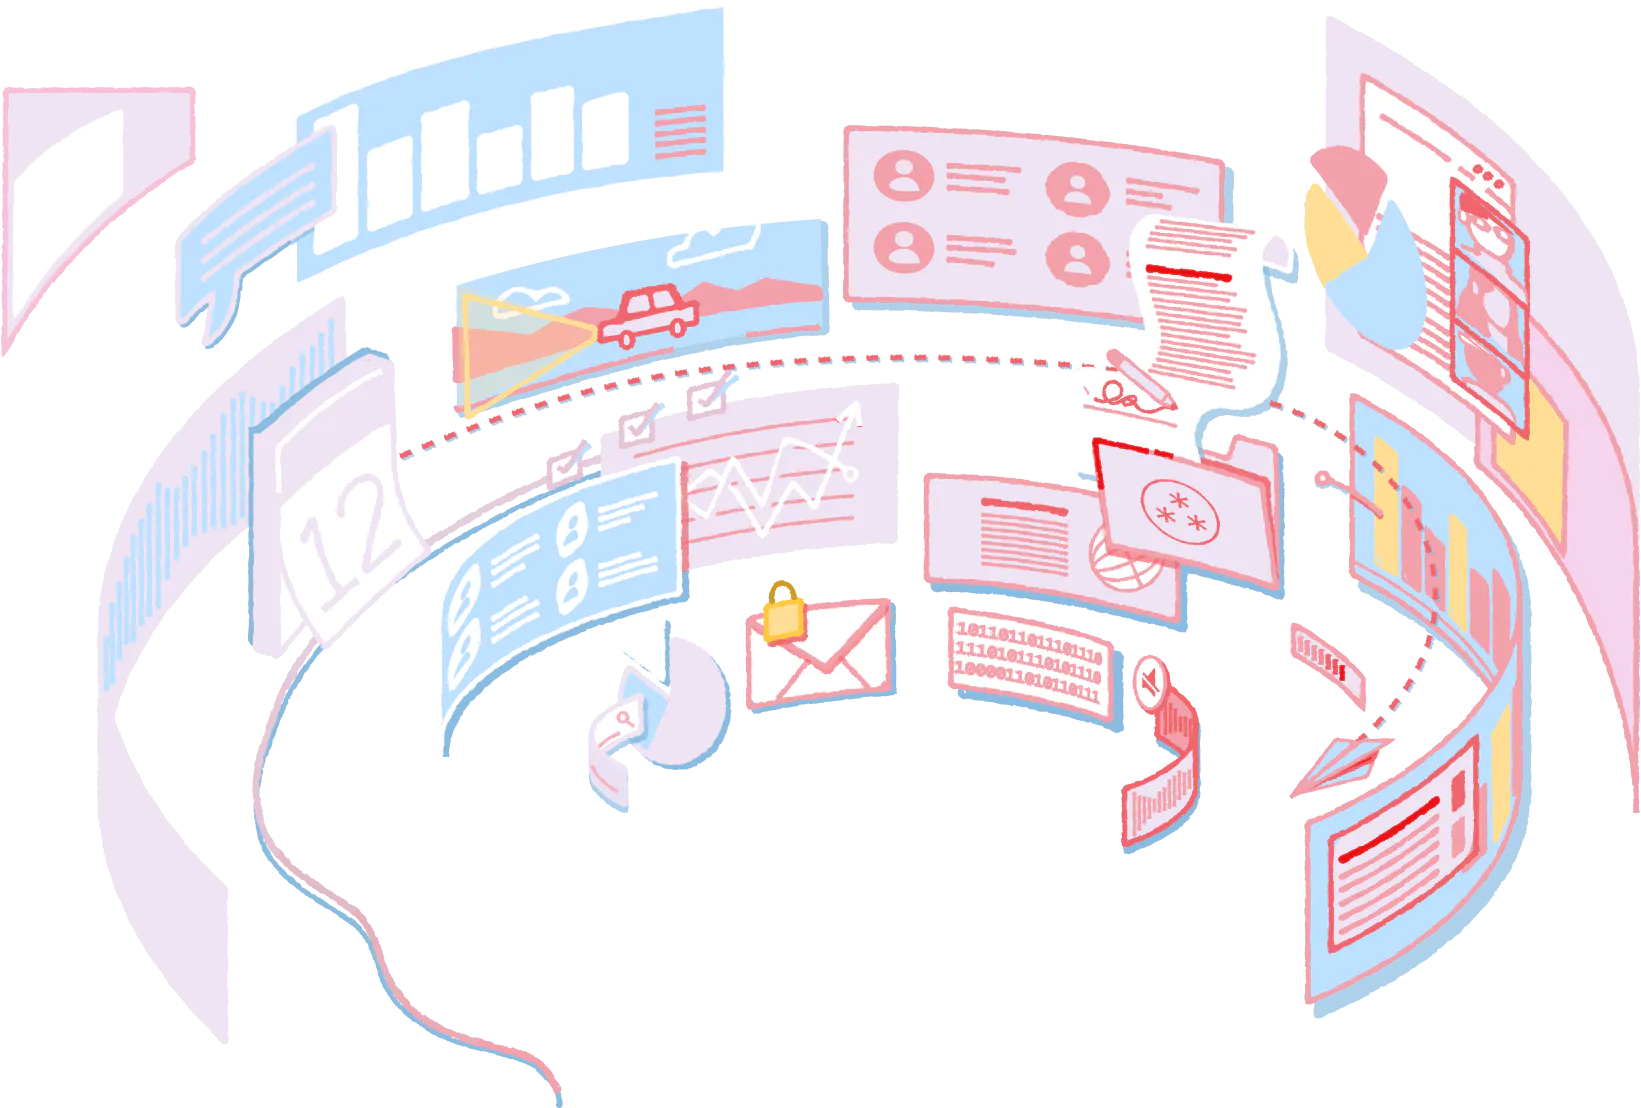
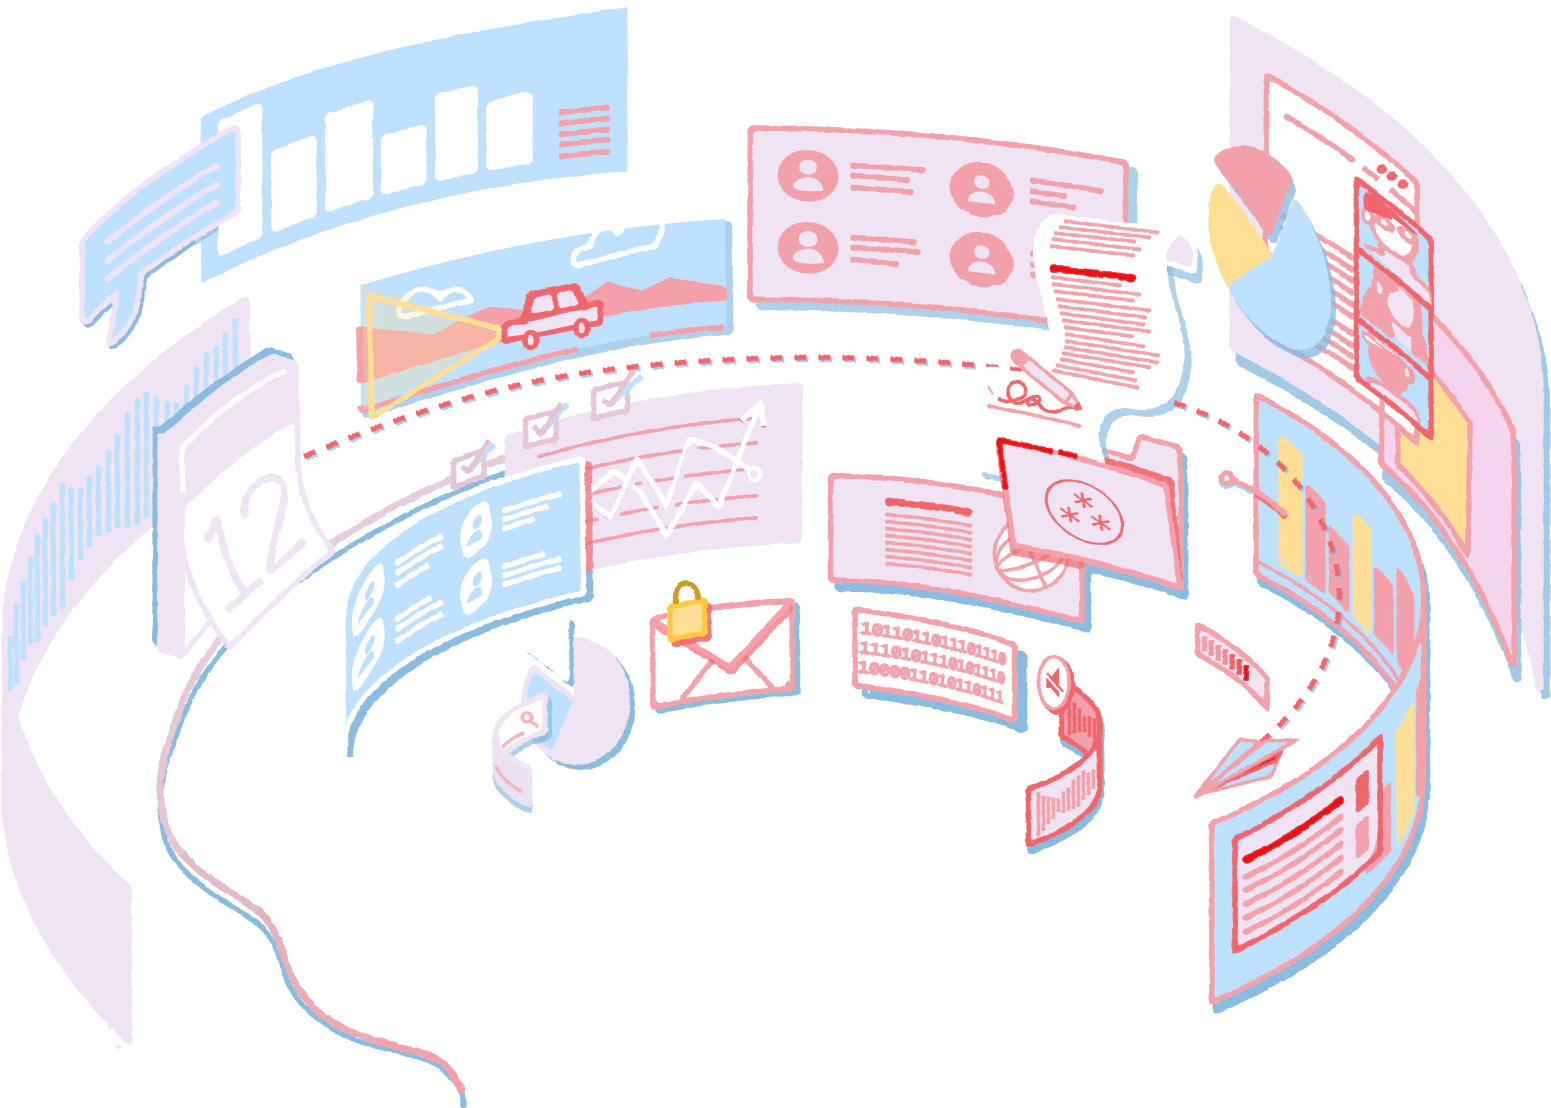
feat: apply r1 hero graphics

diff --git a/pages/index.vue b/pages/index.vue
@@ -6,19 +6,26 @@ const { mailingList } = useAppConfig()
   <TransitionProvider>
     <Section class="overflow-hidden bg-brand-2">
       <template #bg>
-        <div class="grid-margins flex flex-col items-center justify-center transition-all !h-100vh lg:scale-90 md:scale-70 xl:scale-110">
-          <div class="animate-slide-enter relative hidden h-[min(920px,100vh)] w-1240px md:block">
+        <div class="grid-margins flex flex-col items-center justify-center transition-all !h-100vh lg:scale-90 md:scale-70 xl:scale-100">
+          <div class="animate-slide-enter relative hidden h-[min(1024px,100vh)] w-1240px md:block">
             <img
-              class="absolute inset-0 w-full" src="/img/hero/back.webp"
-              srcset="/img/hero/back.webp, /img/hero/back2x.webp 2x"
+              class="absolute inset-0" src="/img/hero/back.webp"
+              srcset="/img/hero/back.webp, /img/hero/back@2x.webp 2x"
               alt="" loading="eager"
+              height="1108"
+              width="1551"
             >
             <div class="absolute inset-0 w-full from-transparent to-brand-2 bg-gradient-to-tl" t-skip />
-            <img width="35%" class="t-bob absolute left-33% top--5%" src="/img/hero/racha.svg" alt="" loading="eager">
             <img
-              class="absolute inset-0 top-520px w-full" src="/img/hero/front.webp"
-              srcset="/img/hero/front.webp, /img/hero/front2x.webp 2x"
+              class="t-bob absolute left-28% top--800px" src="/img/hero/racha.svg" alt="" loading="eager"
+              height="1542" width="559"
+            >
+            <img
+              class="absolute inset-0 left--40px top-590px" src="/img/hero/front.webp"
+              srcset="/img/hero/front.webp, /img/hero/front@2x.webp 2x"
               alt="" loading="eager"
+              height="1406"
+              width="1612"
             >
           </div>
         </div>
@@ -30,9 +37,7 @@ const { mailingList } = useAppConfig()
         :actions="[{ label: 'SIGN UP FOR EARLY ACCESS', href: mailingList.url }]"
       />
       <Split>
-        <SplitCell>
-          <img class="absolute bottom--200px left-0 hidden md:block" width="500px" src="/img/hero/transition.webp" alt="">
-        </SplitCell>
+        <SplitCell />
         <SplitCell class="mx--6 bg-white color-brand-3" padding>
           <SectionHeader
             title="Storacha is decentralized storage, but a hot new take."
